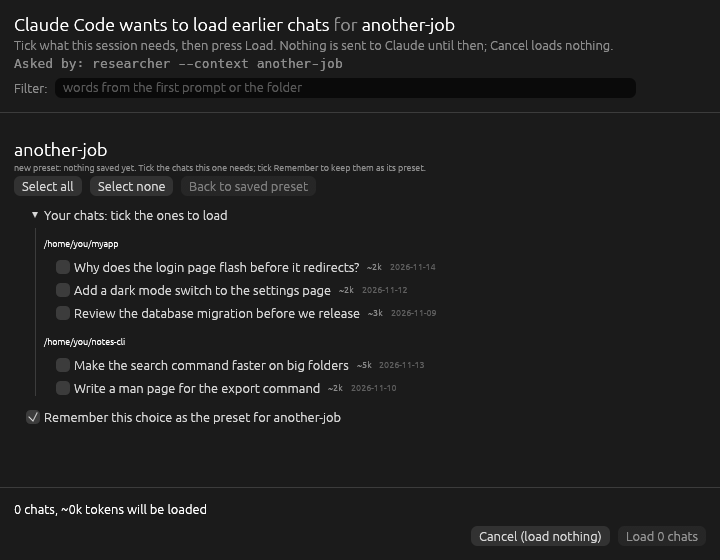
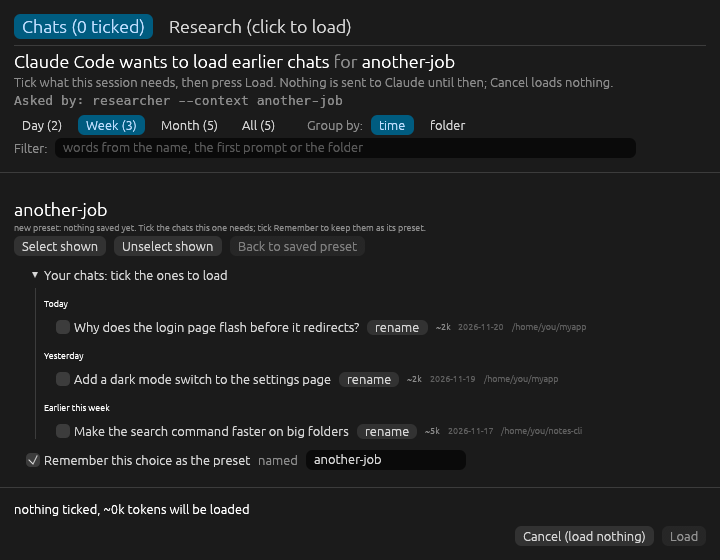
README pictures of the v0.6.0 window; profile tabs say what they hold
- tools/screenshots.sh: chat dates relative to today (the Week chip always has
  chats to show), a default_set so /load-context shows its Research tab, and a
  new picture of a project profile (made-up source tree and presets).
- All six pictures remade; README text describes the tabs, chips and profile.
- A profile tab no longer says "saved preset: 0 documents" or offers
  "Back to saved preset" (it has no preset of its own); Rust and Python.

diff --git a/skills/researcher/researcher.py b/skills/researcher/researcher.py
@@ -703,7 +703,10 @@ def tab_state(tab):
                 "when": times.get(d), "on": d in sizes and d in sec["ticked"], "readable": d in sizes,
                 "new": d in sec["new"]}
     secs = [{"name": s["name"], "title": titles.get(s["name"], ""), "title0": titles.get(s["name"], ""),
-             "save_as": s["name"], "sub": subtitle(s, chats),
+             "save_as": s["name"],
+             "sub": (f"{len(s['docs'])} " + ("files under the profile root" if code else "chats" if chats
+                                              else "documents in your library")
+                     + "; a profile preset above ticks them") if look.get("no_remember") else subtitle(s, chats),
              "main": [row(d, s) for d in s["main"]], "other": [row(d, s) for d in s["other"]],
              "other_open": not s["main"], "saved": set(s["ticked"]), "first": s["first"],
              "remember": s["remember"]} for s in tab["sections"]]
@@ -1083,9 +1086,11 @@ def popup(tabs, start, setup, command="", profile=None):
                 for r in sec["main"] + sec["other"]:
                     r["on"] = r["doc"] in sec["saved"]
                 later(render)
-            for text, fn in (("Select shown" if narrowed else "Select all", lambda _b, s=sec: pick(s, True)),
-                             ("Unselect shown" if narrowed else "Select none", lambda _b, s=sec: pick(s, False)),
-                             ("Back to saved preset", lambda _b, s=sec: back(s))):
+            buttons = [("Select shown" if narrowed else "Select all", lambda _b, s=sec: pick(s, True)),
+                       ("Unselect shown" if narrowed else "Select none", lambda _b, s=sec: pick(s, False))]
+            if not st["no_remember"]:  # a profile tab has no saved preset of its own
+                buttons.append(("Back to saved preset", lambda _b, s=sec: back(s)))
+            for text, fn in buttons:
                 b = Gtk.Button(label=text)
                 b.connect("clicked", fn)
                 if text == "Back to saved preset":

diff --git a/src/popup.rs b/src/popup.rs
@@ -883,7 +883,9 @@ impl eframe::App for App {
                         if ui.button(if narrowed { "Unselect shown" } else { "Select none" }).clicked() {
                             sec.rows_mut().filter(|r| in_view(r)).for_each(|r| r.on = false);
                         }
-                        if ui.add_enabled(!sec.first, egui::Button::new("Back to saved preset")).clicked() {
+                        if !no_remember
+                            && ui.add_enabled(!sec.first, egui::Button::new("Back to saved preset")).clicked()
+                        {
                             let saved = sec.saved.clone();
                             sec.rows_mut().for_each(|r| r.on = saved.contains(&r.doc));
                         }
@@ -985,7 +987,19 @@ fn tab_state(t: &Tab) -> TabState {
                 name: sec.name.clone(),
                 title: look.titles.get(&sec.name).cloned().unwrap_or_default(),
                 save_as: sec.name.clone(),
-                sub: subtitle(sec, look.chats),
+                sub: if look.no_remember {
+                    // a profile tab: no saved preset of its own
+                    let noun = if look.code {
+                        "files under the profile root"
+                    } else if look.chats {
+                        "chats"
+                    } else {
+                        "documents in your library"
+                    };
+                    format!("{} {noun}; a profile preset above ticks them", sec.docs.len())
+                } else {
+                    subtitle(sec, look.chats)
+                },
                 main: rows(&sec.main, sec, &t.sizes, look),
                 other: rows(&sec.other, sec, &t.sizes, look),
                 other_label: match (other_open, look.chats) {

diff --git a/README.md b/README.md
@@ -16,7 +16,7 @@ If you keep research notes, reports, or saved articles on disk and keep telling 
 
 ## How it looks
 
-The first picture is a set with a saved preset: the documents you ticked last time are ticked, a document added since is marked **NEW**, and the rest of your library is folded under "Add other research". The second is a set you have never used: your whole library, grouped by folder, with nothing ticked. **Cancel (load nothing)** always leaves without sending anything.
+The first picture is a set with a saved preset: the documents you ticked last time are ticked, a document added since is marked **NEW**, and the rest of your library is folded under "Add other research". The second is a set you have never used: your whole library, grouped by folder, with nothing ticked. Above the list are the time chips (Day | Week | Month | All) and "Group by: time | folder"; **rename** gives a document or a set a display name. **Cancel (load nothing)** always leaves without sending anything.
 
 ![Popup with a saved preset](docs/img/popup-saved-preset.png)
 
@@ -26,13 +26,17 @@ The first time you load research, before a library is set, a smaller window asks
 
 ![First use: choose the research folder](docs/img/first-use.png)
 
-`/load-context` (earlier chats as context, see [below](#earlier-chats-as-context-load-context)) opens the same kind of window for your earlier Claude Code chats. The first picture is a saved preset: the chats ticked last time are ticked, the rest are folded under "Add other chats", and chats started since are counted as newer and marked **NEW** once you unfold it. The second is a preset you have never used: every chat, grouped by project folder, nothing ticked.
+`/load-context` (earlier chats as context, see [below](#earlier-chats-as-context-load-context)) opens the same window on its **Chats** tab; the **Research** tab next to it loads only when you click it (see [One window, two tabs](#one-window-two-tabs)). The first picture is a saved preset on the Week chip, grouped by time: the chats ticked last time are ticked, the rest are folded under "Add other chats", and chats started since are counted as newer and marked **NEW** once you unfold it. The second is a preset you have never used: the chats of this week under Today, Yesterday and Earlier this week, nothing ticked, with the preset's name field next to Remember.
 
 ![Chat window with a saved preset](docs/img/context-saved-preset.png)
 
 ![Chat window for a new preset](docs/img/context-new-preset.png)
 
-All pictures use the made-up documents in [examples/library](examples/library) and made-up chats. `tools/screenshots.sh` makes them again: it opens the windows five times for about a second each, needs a display, and runs with a throwaway home folder, so none of your own files, settings or paths are touched or shown.
+`/researcher profile myapp gui` opens a [project profile](#project-profiles): Code | Chats | Research, with the preset buttons on top. The preset `gui` ticked two source files, two chats and one research document at once; Chats and Research loaded because the preset needed them.
+
+![A project profile with the preset gui](docs/img/profile.png)
+
+All pictures use the made-up documents in [examples/library](examples/library) and made-up chats. `tools/screenshots.sh` makes them again: it opens the windows six times for about a second each, needs a display, and runs with a throwaway home folder, so none of your own files, settings or paths are touched or shown.
 
 ## The text copy
 
